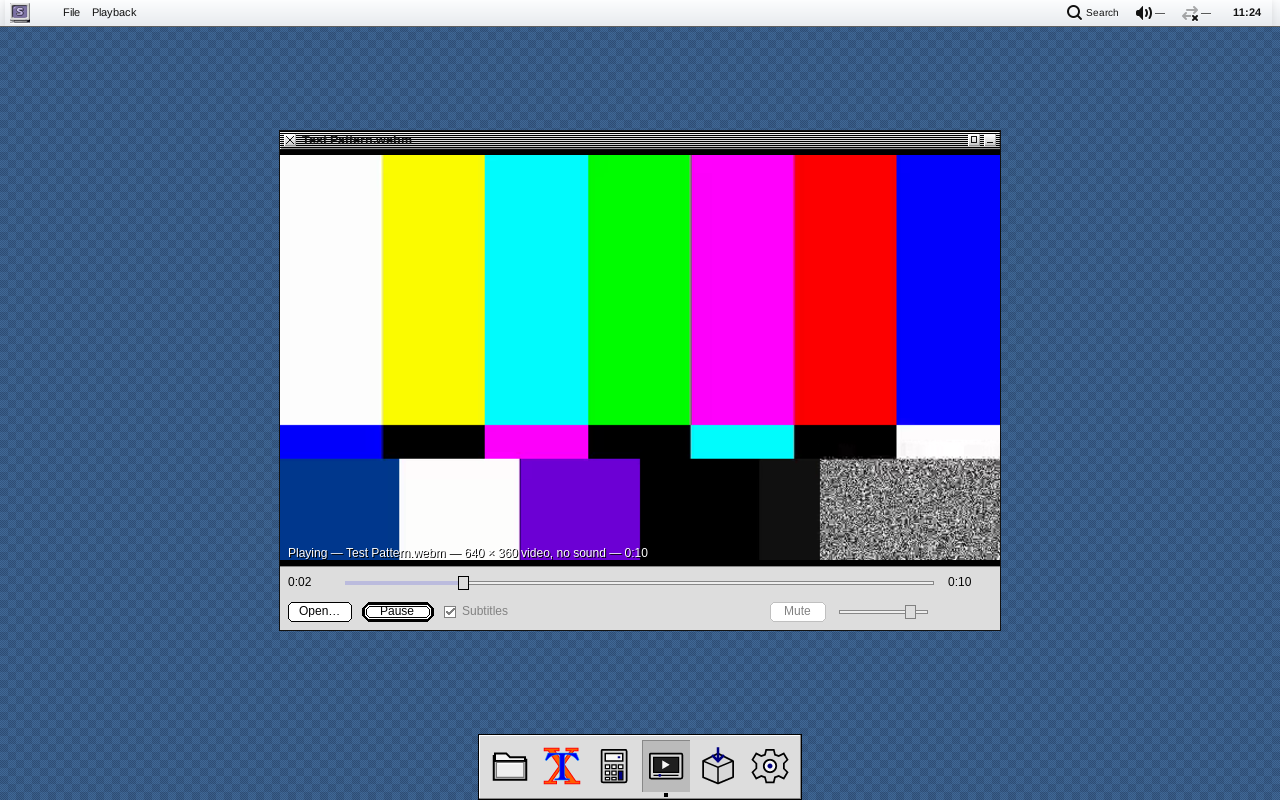
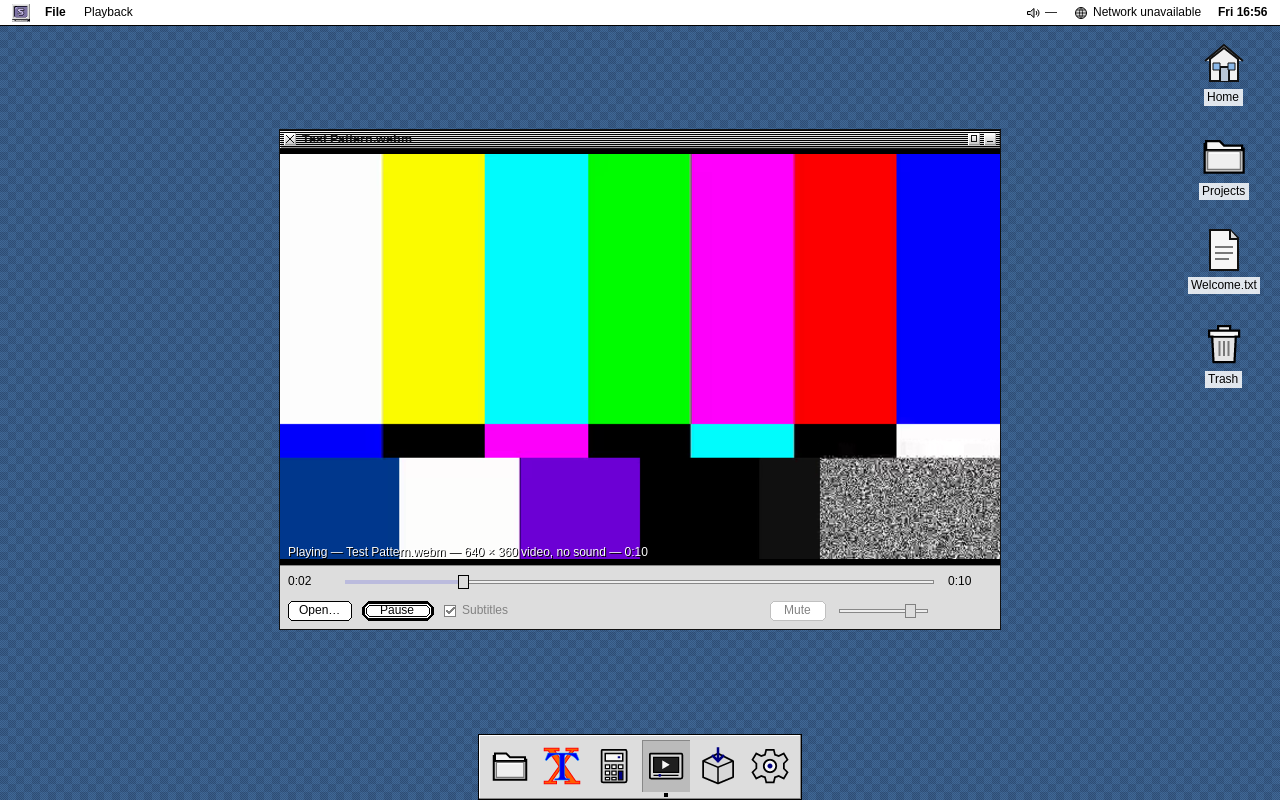
Screenshots and README for the native session
Recaptured docs/screenshots/p1 with scripts/capture-p1-screenshots.sh
on the release build of this branch: the session now runs
slopos-desktop and slopos-topbar (no GTK process), and the script also
captures the desktop context menu and the Display and Keyboard & Mouse
panels, with a small ~/Desktop so icons show. README describes the
desktop icons, the new Control Panels pages and Files archives, and
moves the finished items (top bar off GTK, Wi-Fi join, pairing,
display arrangement, desktop icons) out of the roadmap.

Claude-Session: https://claude.ai/code/session_01QXe1c4cBts4eVc83DJM6sz

diff --git a/README.md b/README.md
@@ -6,7 +6,7 @@ and storage limits. Implementations remain subject to
 [real P1 release gates](docs/p1-x11-release.md), not agent claims.
 
 
-SLOPOS-I is an experimental Linux desktop environment with a compact, Classic-Macintosh-inspired design ("Platinum Classic") on **X11**. It is written in Rust. Openbox manages the windows, and SLOPOS provides the session, a global menu bar, a Dock and its own UI toolkit, with native applications built on it: Files, Image Viewer, Media, Calculator, Control Panels and Software. The bundled applications do not fall back to GTK apps.
+SLOPOS-I is an experimental Linux desktop environment with a compact, Classic-Macintosh-inspired design ("Platinum Classic") on **X11**. It is written in Rust. Openbox manages the windows, and SLOPOS provides the session, a global menu bar, desktop icons, a Dock and its own UI toolkit, with native applications built on it: Files, Image Viewer, Media, Calculator, Control Panels and Software. Everything a SLOPOS session starts is on that toolkit, and the bundled applications do not fall back to GTK apps.
 
 **Status: alpha.** It runs, and the pieces below work, but it is not ready for daily use and is nowhere near GNOME or KDE in coverage.
 
@@ -16,7 +16,7 @@ SLOPOS-I is an experimental Linux desktop environment with a compact, Classic-Ma
 
 ## Screenshots
 
-Captured from real sessions (Xvfb + Openbox + `slopos-shell`, and the live ISO booted in QEMU). They show the software running; they are not visual-conformance or accessibility evidence. The full set, with how each was taken, is in [docs/screenshots/p1](docs/screenshots/p1/README.md).
+Captured from real sessions (Xvfb + Openbox with the SLOPOS top bar, and the live ISO booted in QEMU). They show the software running; they are not visual-conformance or accessibility evidence. The full set, with how each was taken, is in [docs/screenshots/p1](docs/screenshots/p1/README.md).
 
 | | |
 |---|---|
@@ -27,25 +27,25 @@ Captured from real sessions (Xvfb + Openbox + `slopos-shell`, and the live ISO b
 
 ## What works today
 
-- **Session:** `slopos-session` supervises Openbox, an optional compositor, the shell and the Dock. It restarts crashed components with backoff and has a real **Log Out**: it stops every session process and nothing is left behind.
-- **Menu bar:**
+- **Session:** `slopos-session` supervises Openbox, an optional compositor, the top bar, the desktop window and the Dock, and re-applies the display, keyboard and mouse settings kept in Control Panels at login. It restarts crashed components with backoff and has a real **Log Out**: it stops every session process and nothing is left behind.
+- **Menu bar** (`slopos-topbar`, on the SLOPOS toolkit):
   - the System menu, and desktop menus (New Folder, Empty Trash with confirmation, Control Panels, Software, About);
-  - the focused app's own menus: SLOPOS apps export theirs over the GTK menu protocol (`org.gtk.Menus`), and so do GTK apps; other windows get window actions. If the shell is not running, SLOPOS apps draw their menu bar in the window instead;
+  - the focused app's own menus: SLOPOS apps export theirs over the GTK menu protocol (`org.gtk.Menus`), and so do GTK apps; other windows get window actions. If the top bar is not running, SLOPOS apps draw their menu bar in the window instead;
   - live sound, network and battery status, and the clock.
 - **Dock:** pinned and running apps, one dot per window, attention state. Click to launch, raise or cycle windows; middle-click starts a new instance.
-- **Launcher:** Super+Space opens a fuzzy search over installed applications.
+- **Launcher:** Super+Space or Ctrl+F2 opens a fuzzy search over installed applications.
 - **Notifications:** a built-in `org.freedesktop.Notifications` daemon.
-- **Desktop picture:** painted by the session itself; choose a bundled pattern or your own PNG in Control Panels.
-- **Files:** Places sidebar, theme icons, list with Name/Size/Modified/Kind, copy/move/rename/new folder with conflict handling and cancel, Trash with restore and empty, open with the default app.
+- **Desktop:** the session paints the picture (a bundled pattern or your own PNG, chosen in Control Panels); `slopos-desktop` shows Home, mounted volumes, the items in your Desktop folder and the Trash as icons you can select, open, move and add folders to.
+- **Files:** Places sidebar, theme icons, list with Name/Size/Modified/Kind, copy/move/rename/new folder with conflict handling and cancel, Trash with restore and empty, Compress (zip, tar.gz) and Extract Here (zip, tar, tar.gz/xz/zst) with protection against hostile archives, open with the default app.
 - **Image Viewer:** PNG, JPEG, GIF, BMP, WebP, TIFF and SVG with bounded decoding, folder navigation, zoom and pan.
 - **Media:** GStreamer playback of video and audio with seek, volume, mute and sidecar subtitles.
-- **Control Panels:** Network, Sound, Display (brightness), Bluetooth, Date & Time, Desktop and Appearance, all on live system services; a missing service is shown as unavailable.
+- **Control Panels:** Network (join Wi-Fi with a password, disconnect, forget), Sound (output and input devices, per-application volume), Display (resolution, refresh, rotation, arrangement, main display, brightness, with a 15-second revert), Bluetooth (search, pair, connect, forget), Date & Time, Desktop, Appearance and Keyboard & Mouse (layout, key repeat, pointer speed, natural scrolling, left-handed), all on live system services; a missing service is shown as unavailable.
 - **Software:** a signed AppImage catalogue (Ed25519) with transactional install, update and remove. No production catalogue is published yet.
 - **Calculator:** keyboard, mouse and screen readers all work.
 - **Live ISOs:** Ubuntu 24.04-based amd64 and arm64 live images that boot straight into SLOPOS-I (`packaging/iso`).
 - **SLOPOS toolkit** (`crates/slopos-ui`): software rendering, shaped text, PNG/SVG images, icon themes, an X11 window host with HiDPI scaling, and AT-SPI accessibility. No GTK.
 
-Still incomplete: Files drag and drop, icon view, thumbnails and removable volumes; native Terminal and Text editor (the system terminal and Mousepad are used); desktop icons; volume and brightness OSDs; workspaces UI; lock screen; display arrangement; Wi-Fi passwords and Bluetooth pairing; Dock context menus and reordering. The top bar itself is still GTK 3. [docs/architecture.md](docs/architecture.md) explains how everything fits together and lists the gaps.
+Still incomplete: Files drag and drop, icon view, thumbnails and removable-volume mounting; native Terminal and Text editor (the system terminal and Mousepad are used); volume and brightness OSDs and status popovers; workspaces UI; lock screen and polkit agent; network-secret and Bluetooth pairing agents (Wi-Fi passwords are asked in Control Panels; devices needing a PIN fail with BlueZ's error); Dock context menus and reordering. [docs/architecture.md](docs/architecture.md) explains how everything fits together and lists the gaps.
 
 ## Try it
 
@@ -74,11 +74,11 @@ An opt-in local text-to-application-action prototype is available with Ollama an
 Next steps, in priority order:
 
 1. **Volume and brightness OSDs with media keys**, and Wi-Fi/Bluetooth/clock popovers, drawn with the SLOPOS toolkit.
-2. **Files:** drag and drop, icon view, thumbnails, properties and removable volumes; native desktop icons.
-3. **Native Terminal and Text editor** on the toolkit.
-4. **Control Panels depth:** Wi-Fi join, Bluetooth pairing, display arrangement, time zones, Dock settings.
-5. **A published software catalogue** signed with the project's publisher key.
-6. **Moving the top bar off GTK 3**, the last GTK surface in a session.
+2. **Lock screen, polkit agent, network-secret and Bluetooth pairing agents.**
+3. **Files:** drag and drop (also with the desktop), icon view, thumbnails, properties and removable-volume mounting.
+4. **Native Terminal and Text editor** on the toolkit.
+5. **Control Panels depth:** time zones, Dock settings, per-monitor scale.
+6. **A published software catalogue** signed with the project's publisher key.
 
 ### Longer-term goals (planned, not implemented)
 
@@ -123,7 +123,7 @@ The [SLOPOS Design Bible](docs/contract/02-design.md#52-slopos-design-bible--des
 
 | Document | What it covers |
 |---|---|
-| [docs/architecture.md](docs/architecture.md) | What exists today: processes, crates, the toolkit, the Dock, the shell, packages and CI. |
+| [docs/architecture.md](docs/architecture.md) | What exists today: processes, crates, the toolkit, the top bar, the desktop, the Dock, packages and CI. |
 | [docs/development.md](docs/development.md) | Building, testing, running a session from the source tree, QA scripts and releasing. |
 | [docs/CONTRACT.md](docs/CONTRACT.md) | The engineering contract: target requirements by area, with the evidence ledger. |
 | [AGENTS.md](AGENTS.md) | Short working rules for coding agents. |

diff --git a/docs/screenshots/p1/README.md b/docs/screenshots/p1/README.md
@@ -9,20 +9,24 @@ anti-pattern 19).
 
 Taken with `scripts/capture-p1-screenshots.sh .work/p1/target/release`
 (release build of this branch): Xvfb 1280×800, Openbox with the SLOPOS
-Platinum theme, `slopos-shell` (top bar), `slopos-dock`, the bundled
+Platinum theme, `slopos-desktop`, `slopos-topbar`, `slopos-dock`, the bundled
 SLOPOS-Platinum icon theme and wallpapers, and a throwaway home folder. The
 container has no NetworkManager, sound server or BlueZ, so status items and
 panels honestly show those as unavailable.
 
 | File | What it shows |
 |---|---|
-| `desktop.png` | The desktop: Slate Blue picture painted by `slopos-session --paint-desktop`, the top bar's desktop menus, the Dock with Files, Terminal, Calculator, Media, Software and Control Panels. |
+| `desktop.png` | The desktop: the picture painted by `slopos-session --paint-desktop`, `slopos-desktop`'s icons (Home, a Projects folder and Welcome.txt from `~/Desktop`, Trash), the top bar's desktop menus, the Dock with Files, Terminal, Calculator, Media, Software and Control Panels. |
+| `desktop-context-menu.png` | Right-click on the desktop: New Folder, Change Desktop Picture…, Open Desktop in Files. |
+| `desktop-icons-menu.png`, `session-desktop.png` | Earlier development captures of the desktop window (a selected folder and the context menu; the full smoke session). |
 | `files.png` | Files: Places sidebar, theme icons, icon toolbar; its File/Edit/View/Go menus are in the top bar, not the window. |
 | `files-view-menu.png` | Files' View menu opened from the top bar (Show Hidden Files is a check item that follows Files' state). |
 | `image-viewer.png` | Image Viewer on a 1600×1000 PNG, fitted, with its File/View/Go menus in the top bar. |
 | `media.png` | Media playing a VP8 test pattern (generated with GStreamer's `videotestsrc`); File/Playback menus in the top bar. |
 | `control-panels-desktop.png` | Control Panels, Desktop page: bundled patterns with thumbnails. |
 | `control-panels-sound.png` | Control Panels, Sound page with no sound server: the reason is shown and the controls are disabled. |
+| `control-panels-display.png` | Control Panels, Display page on Xvfb's single output: the real mode is shown; pop-ups with one choice are disabled. |
+| `control-panels-keyboard.png` | Control Panels, Keyboard & Mouse page; Xvfb has no libinput pointer, so pointer speed is disabled and says why. |
 | `software.png` | Software with a QA catalogue signed by a key generated for this capture (not a real publisher key). |
 | `calculator.png` | Calculator after typing `12*12=`. Calculator exports no menus yet, so the top bar shows window actions. |
 
